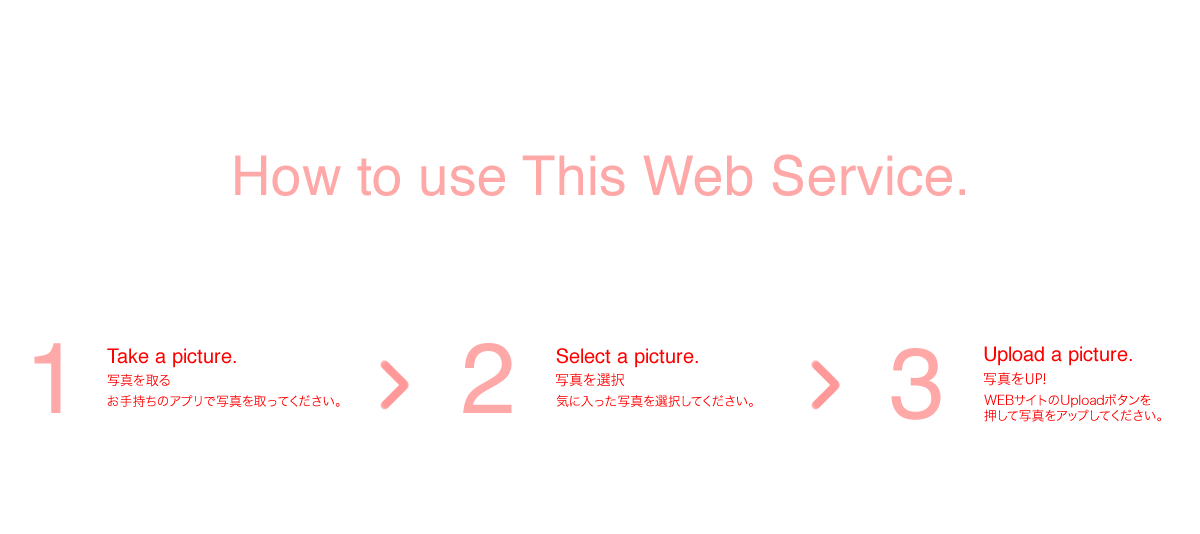
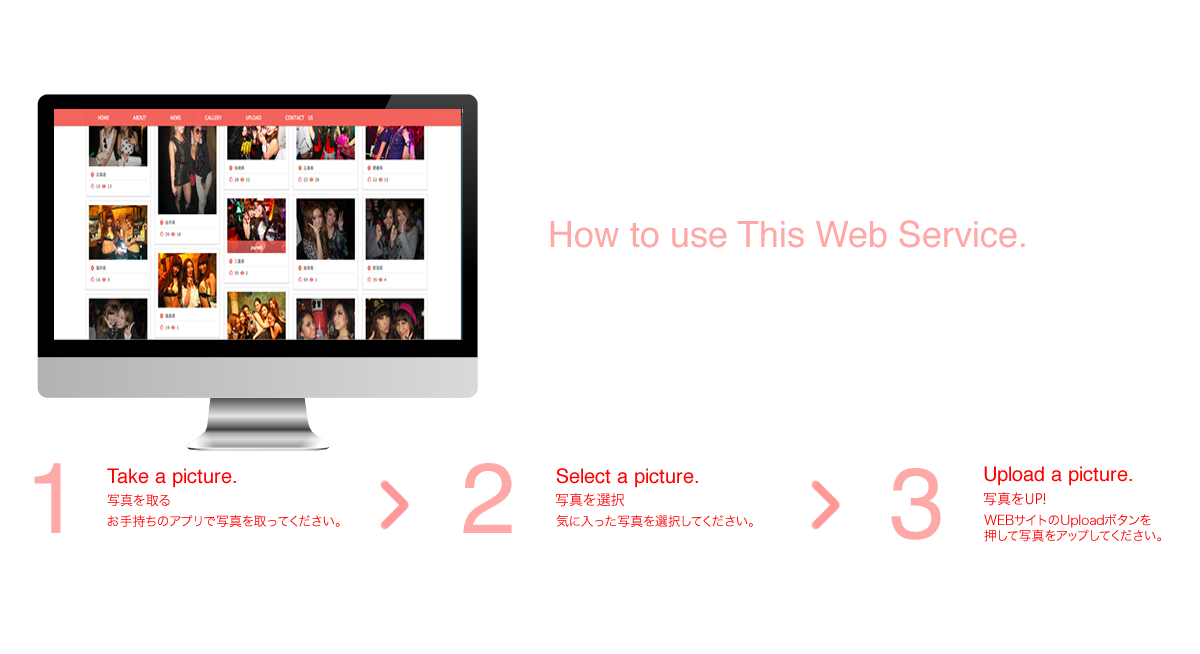
アイキャッチ　大幅に変更

diff --git a/app/assets/stylesheets/photos.css.scss b/app/assets/stylesheets/photos.css.scss
@@ -141,7 +141,7 @@ header {
 /* How to Use */
 
 #howtouse{
-	height:449px;
+	height:683px;
 	width: 1150px;
 	margin: 0 auto 100px;
 	background-image: url("howtouse.png");
